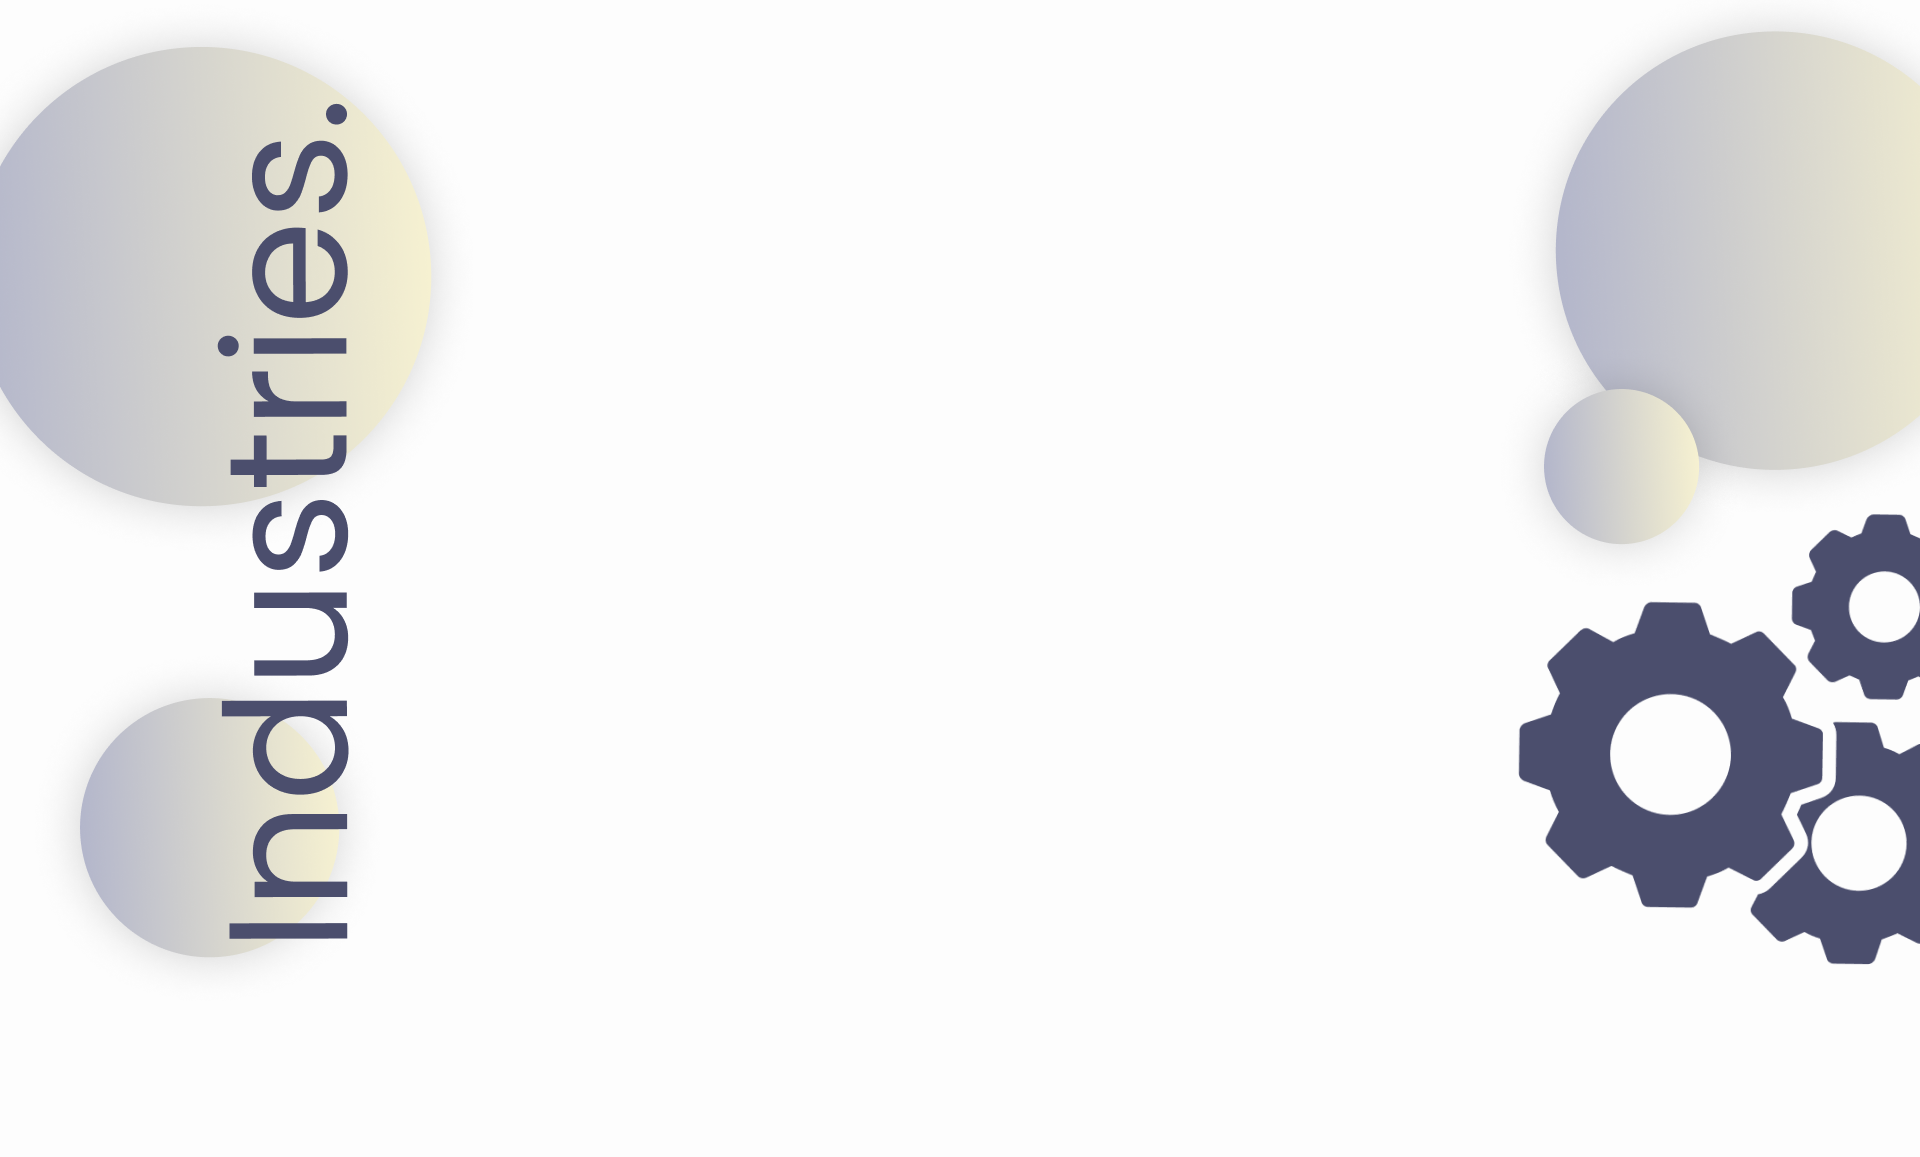
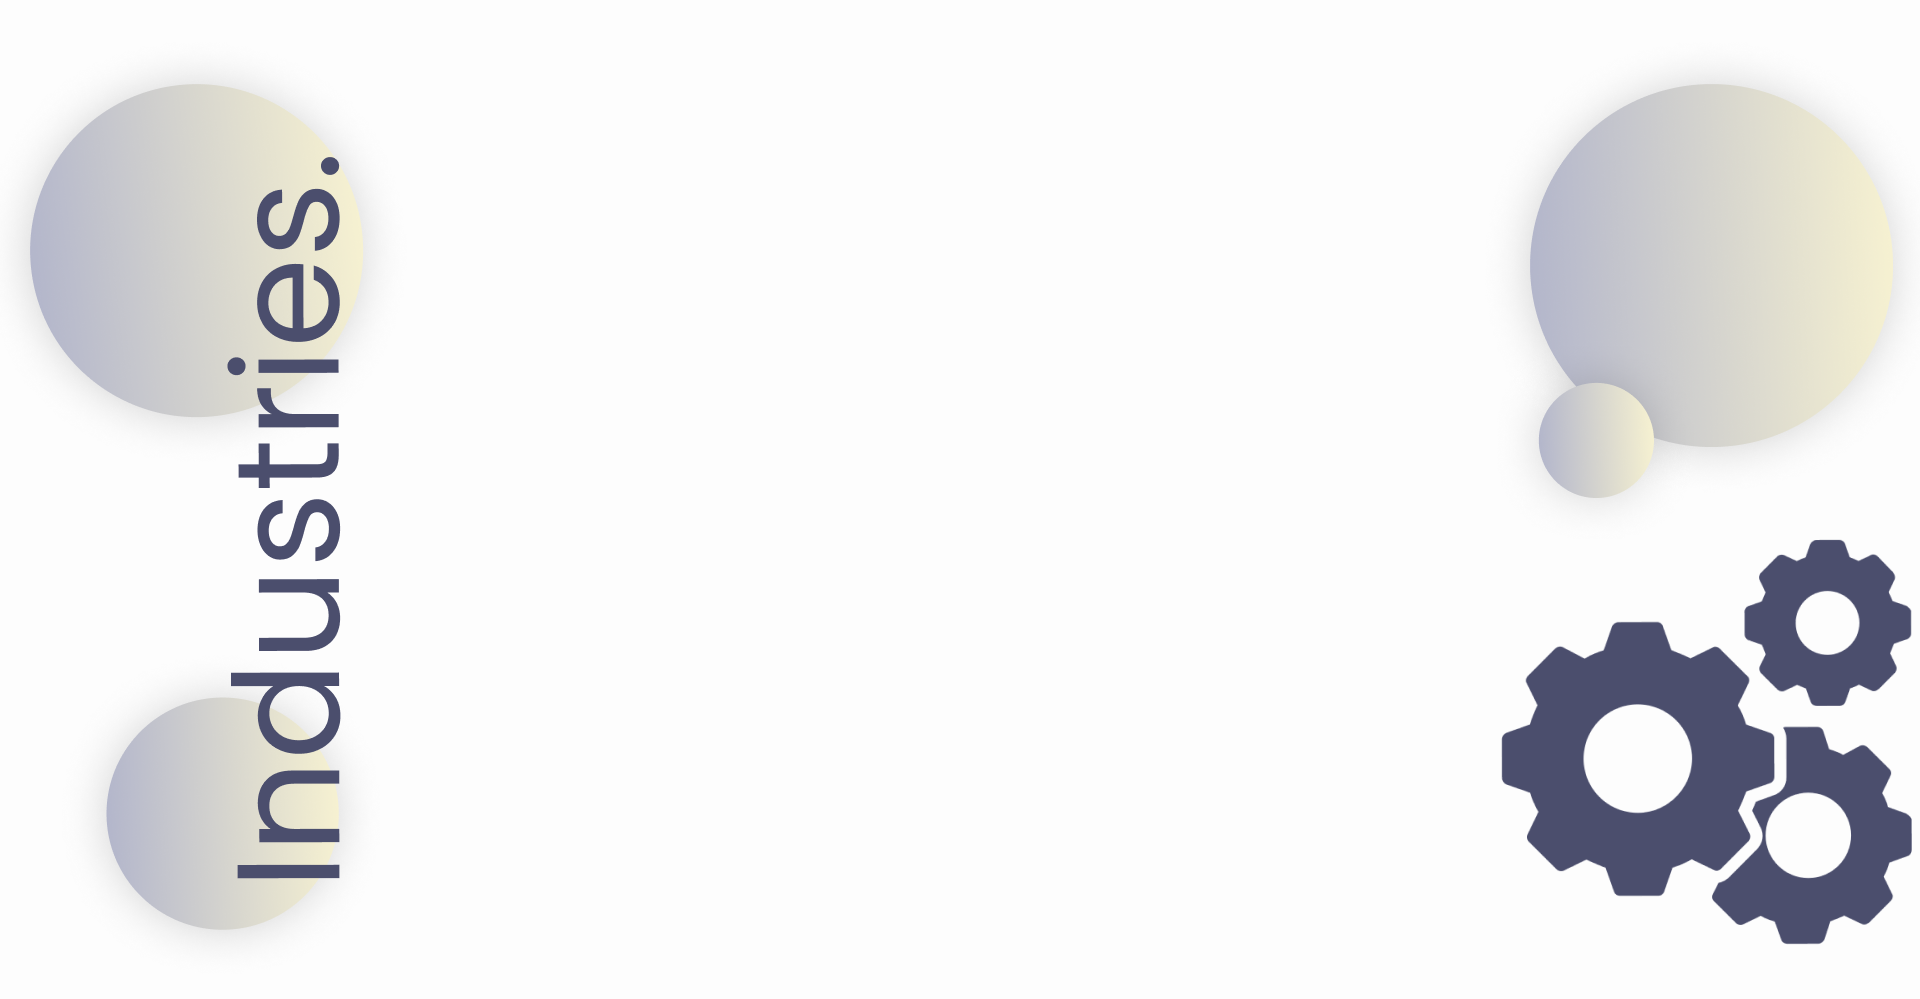
added changes

Changed region(s): [[0.7812, 0.0, 1.0, 0.962], [0.0, 0.031, 0.25, 0.9309]]

diff --git a/src/app/components/pagecomponents/homepagecomponents/styles/homeindustriessection.css b/src/app/components/pagecomponents/homepagecomponents/styles/homeindustriessection.css
@@ -19,6 +19,13 @@
   gap: 2rem;
 }
 
+.homepage-industres-mobile-heading {
+  font-size: 32px;
+  font-weight: 300;
+  color: var(--text-color);
+  display: none;
+}
+
 .homepage-industries-tag {
   background-color: #ffd37e;
   width: 130px;
@@ -61,4 +68,329 @@
 
 .homepage-industries-icongrid-container.even-icon {
   background-color: #ffd37e; /* Keep the original background color for even icons */
+}
+
+/* Default styles (mobile-first approach) */
+
+/* Small phones (<= 320px) */
+@media (max-width: 320px) {
+  .homepage-industries-section-container {
+    background-image: none;
+    padding-left: 1rem;
+    padding-right: 1rem;
+    width: 100%;
+    height: auto;
+  }
+
+  .homepage-industries-icongrid-container {
+    width: 93%;
+  }
+
+  .homepage-industries-text {
+    font-size: 18px;
+    font-weight: 300;
+    color: var(--text-color);
+  }
+}
+
+/* Standard small phones (<= 360px) */
+@media (max-width: 360px) {
+  .homepage-industries-section-container {
+    background-image: none;
+    padding-left: 1rem;
+    padding-right: 1rem;
+    width: 100%;
+    height: auto;
+  }
+
+  .homepage-industries-section-text-container {
+    width: 100%;
+  }
+
+  .homepage-industries-icongrid-container {
+    width: 93%;
+  }
+
+  .homepage-industries-text {
+    font-size: 18px;
+    font-weight: 300;
+    color: var(--text-color);
+  }
+}
+
+/* Standard small phones (<= 360px) */
+@media (max-width: 375px) {
+  .homepage-industries-section-container {
+    background-image: none;
+    padding-left: 1rem;
+    padding-right: 1rem;
+    width: 100%;
+    height: auto;
+  }
+
+  .homepage-industries-section-text-container {
+    width: 100%;
+  }
+
+  .homepage-industries-icongrid-container {
+    width: 93%;
+  }
+
+  .homepage-industries-text {
+    font-size: 18px;
+    font-weight: 300;
+    color: var(--text-color);
+  }
+}
+
+/* iPhone 14, 15 (standard model) */
+@media (min-width: 390px) {
+  .homepage-industries-section-container {
+    background-image: none;
+    padding-left: 1rem;
+    padding-right: 1rem;
+    width: 100%;
+    height: auto;
+  }
+
+  .homepage-industries-section-text-container {
+    width: 100%;
+  }
+
+  .homepage-industries-icongrid-container {
+    width: 93%;
+  }
+
+  .homepage-industries-text {
+    font-size: 18px;
+    font-weight: 300;
+    color: var(--text-color);
+  }
+}
+
+/* iPhone 14 Pro, 15 Pro */
+@media (min-width: 430px) {
+}
+
+/* Larger phones and phablets (>= 480px) */
+@media (min-width: 480px) {
+  .homepage-industries-icongrid-container {
+    width: 93%;
+    padding: 6rem;
+  }
+}
+
+/* Tablets (>= 600px) */
+@media (min-width: 600px) {
+  .homepage-industries-icongrid-container {
+    padding: 4rem;
+    width: 44%;
+  }
+
+  /* Apply the yellow background color to odd icons */
+  .homepage-industries-icongrid-container.odd-icon {
+    background-color: #f6f1d1;
+  }
+
+  .homepage-industries-icongrid-container.even-icon {
+    background-color: #ffd37e; /* Keep the original background color for even icons */
+  }
+}
+
+/* Small laptops and larger tablets (>= 768px) */
+@media (min-width: 768px) {
+  .homepage-industries-icongrid-container {
+    padding: 4rem;
+    width: 39%;
+  }
+}
+
+/* Medium laptops (>= 1024px) */
+@media (min-width: 1024px) {
+  .homepage-industries-icongrid-container {
+    padding: 4rem;
+    width: 31%;
+  }
+}
+
+/* Large laptops and desktops (>= 1280px) */
+@media (min-width: 1280px) {
+  .homepage-industries-icongrid-container {
+    padding: 6rem;
+    width: 31%;
+  }
+
+  .homepage-industries-text {
+    font-size: 26px;
+  }
+}
+
+/* Extra-large desktops (>= 1440px) */
+@media (min-width: 1440px) {
+  .homepage-industries-section-container {
+    margin-top: 10rem;
+    margin-bottom: 10rem;
+  }
+}
+
+/* Ultra-wide screens (>= 1600px) */
+@media (min-width: 1600px) {
+  .homepage-industries-section-container {
+    width: 100%;
+    height: auto;
+    margin-top: 3rem;
+    margin-bottom: 10rem;
+    display: flex;
+    flex-direction: column;
+    justify-content: center;
+    align-items: center;
+    padding-left: 2rem;
+    padding-right: 2rem;
+    padding-bottom: 4rem;
+    background-size: cover;
+    background-position: center;
+    background-repeat: no-repeat;
+    position: relative;
+    background-image: url("/homeindustries_background_1600.png");
+  }
+
+  .homepage-industries-section-text-container {
+    width: 53%;
+    display: flex;
+    flex-direction: column;
+    gap: 2rem;
+  }
+
+  .homepage-industres-mobile-heading {
+    font-size: 32px;
+    font-weight: 300;
+    color: var(--text-color);
+    display: none;
+  }
+
+  .homepage-industries-tag {
+    background-color: #ffd37e;
+    width: 130px;
+    padding-left: 0.2rem;
+    color: var(--text-color);
+    font-size: 25px;
+  }
+
+  .homepage-industries-text {
+    font-size: 26px;
+    font-weight: 300;
+    color: var(--text-color);
+  }
+
+  .homepage-industries-grid {
+    display: flex;
+    flex-direction: row;
+    justify-content: center;
+    align-items: center;
+    flex-wrap: wrap;
+    gap: 2rem;
+  }
+
+  .homepage-industries-icongrid-container {
+    background-color: #ffd37e;
+    padding: 4rem;
+    width: 30%;
+    height: auto;
+    display: flex;
+    flex-direction: column;
+    justify-content: center;
+    align-items: center;
+    border-radius: 25px;
+  }
+
+  /* Apply the yellow background color to odd icons */
+  .homepage-industries-icongrid-container.odd-icon {
+    background-color: #f6f1d1;
+  }
+
+  .homepage-industries-icongrid-container.even-icon {
+    background-color: #ffd37e; /* Keep the original background color for even icons */
+  }
+}
+
+/* Ultra-wide screens (>= 1600px) */
+@media (min-width: 1920px) {
+  .homepage-industries-section-container {
+    width: 100%;
+    height: auto;
+    margin-top: 10rem;
+    margin-bottom: 10rem;
+    padding-left: 0rem;
+    padding-right: 0rem;
+    padding-bottom: 4rem;
+    padding-top: 2rem;
+    background-image: url(/homeindustries_background_1920.png);
+  }
+}
+
+/* 4K screens (>= 1920px) */
+@media (min-width: 2560px) {
+  .homepage-industries-section-container {
+    background-image: url(/homeindustries_background_2560.png);
+  }
+}
+
+/* Iphone SE */
+@media (width: 375px) and (height: 667px) {
+}
+
+/* Iphone XR */
+@media (width: 414px) and (height: 896px) {
+}
+
+/* Iphone 12 Pro */
+@media (width: 390px) and (height: 844px) {
+}
+
+/* Iphone 14 Pro Max */
+@media (width: 430px) and (height: 932px) {
+}
+
+/* Pixel 7 */
+@media (width: 412px) and (height: 915px) {
+}
+
+/* Samsung Galaxy S8+ */
+@media (width: 360px) and (height: 740px) {
+}
+
+/* Samsung Galaxy S20 Ultra */
+@media (width: 412px) and (height: 915px) {
+}
+
+/* iPad Mini */
+@media (width: 768px) and (height: 1024px) {
+}
+
+/* iPad Air */
+@media (width: 820px) and (height: 1180px) {
+}
+
+/* iPad Pro */
+@media (width: 1024px) and (height: 1366px) {
+}
+
+/* Surface Pro 7 */
+@media (width: 912px) and (height: 1368px) {
+}
+
+/* Surface Duo*/
+@media (width: 540px) and (height: 720px) {
+}
+
+/* Samsung Galaxy A51/71 */
+@media (width: 412px) and (height: 914px) {
+}
+
+/* Nest Hub */
+@media (width: 1024px) and (height: 600px) {
+}
+
+/* Nest Hub Max */
+@media (width: 1280px) and (height: 800px) {
 }

diff --git a/src/app/components/pagecomponents/homepagecomponents/homeindsubcomponents/homeindheading.js b/src/app/components/pagecomponents/homepagecomponents/homeindsubcomponents/homeindheading.js
@@ -1,7 +1,12 @@
 export default function HomeIndHeading({ Homeindustriessectiondata }) {
   return (
-    <div className="homepage-industries-tag font-poppins">
-      {Homeindustriessectiondata.homeindustriesheading}
-    </div>
+    <>
+      <div className="homepage-industres-mobile-heading font-poppins">
+        Industries
+      </div>
+      <div className="homepage-industries-tag font-poppins">
+        {Homeindustriessectiondata.homeindustriesheading}
+      </div>
+    </>
   );
 }
